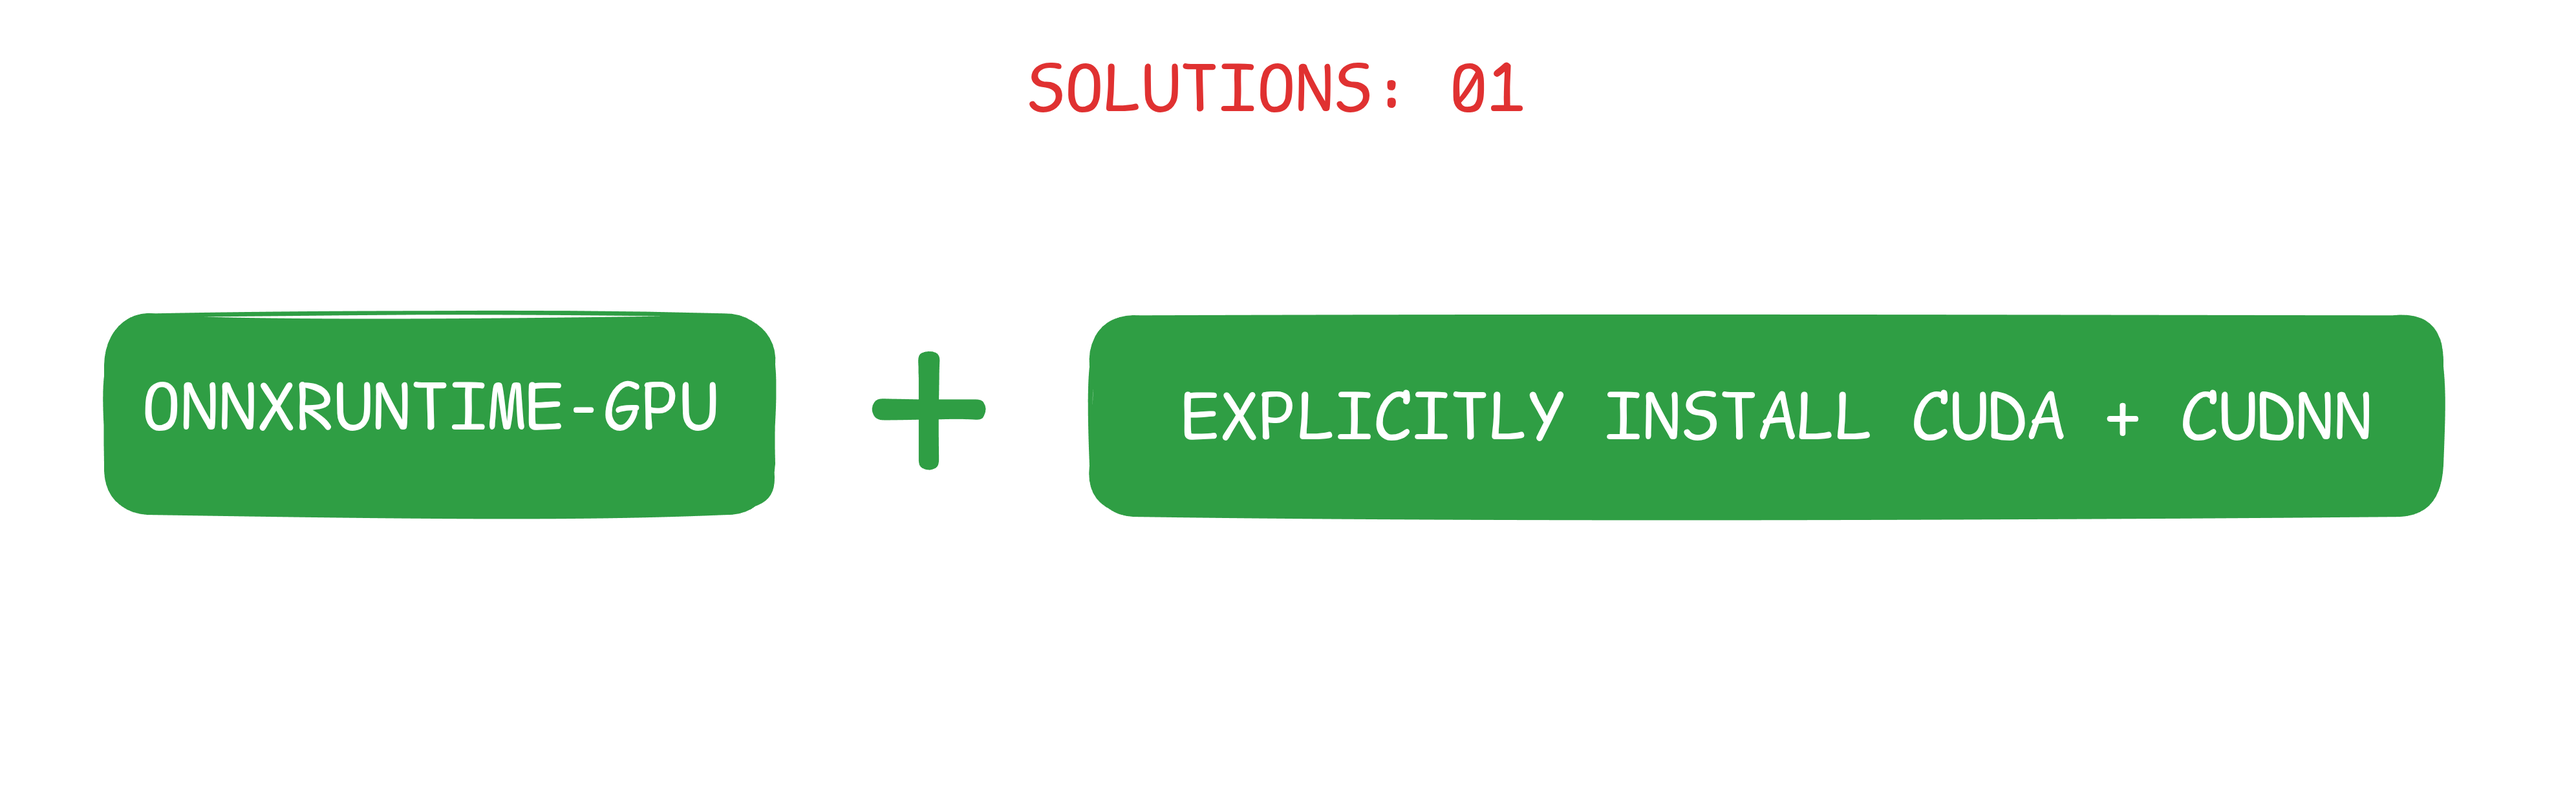
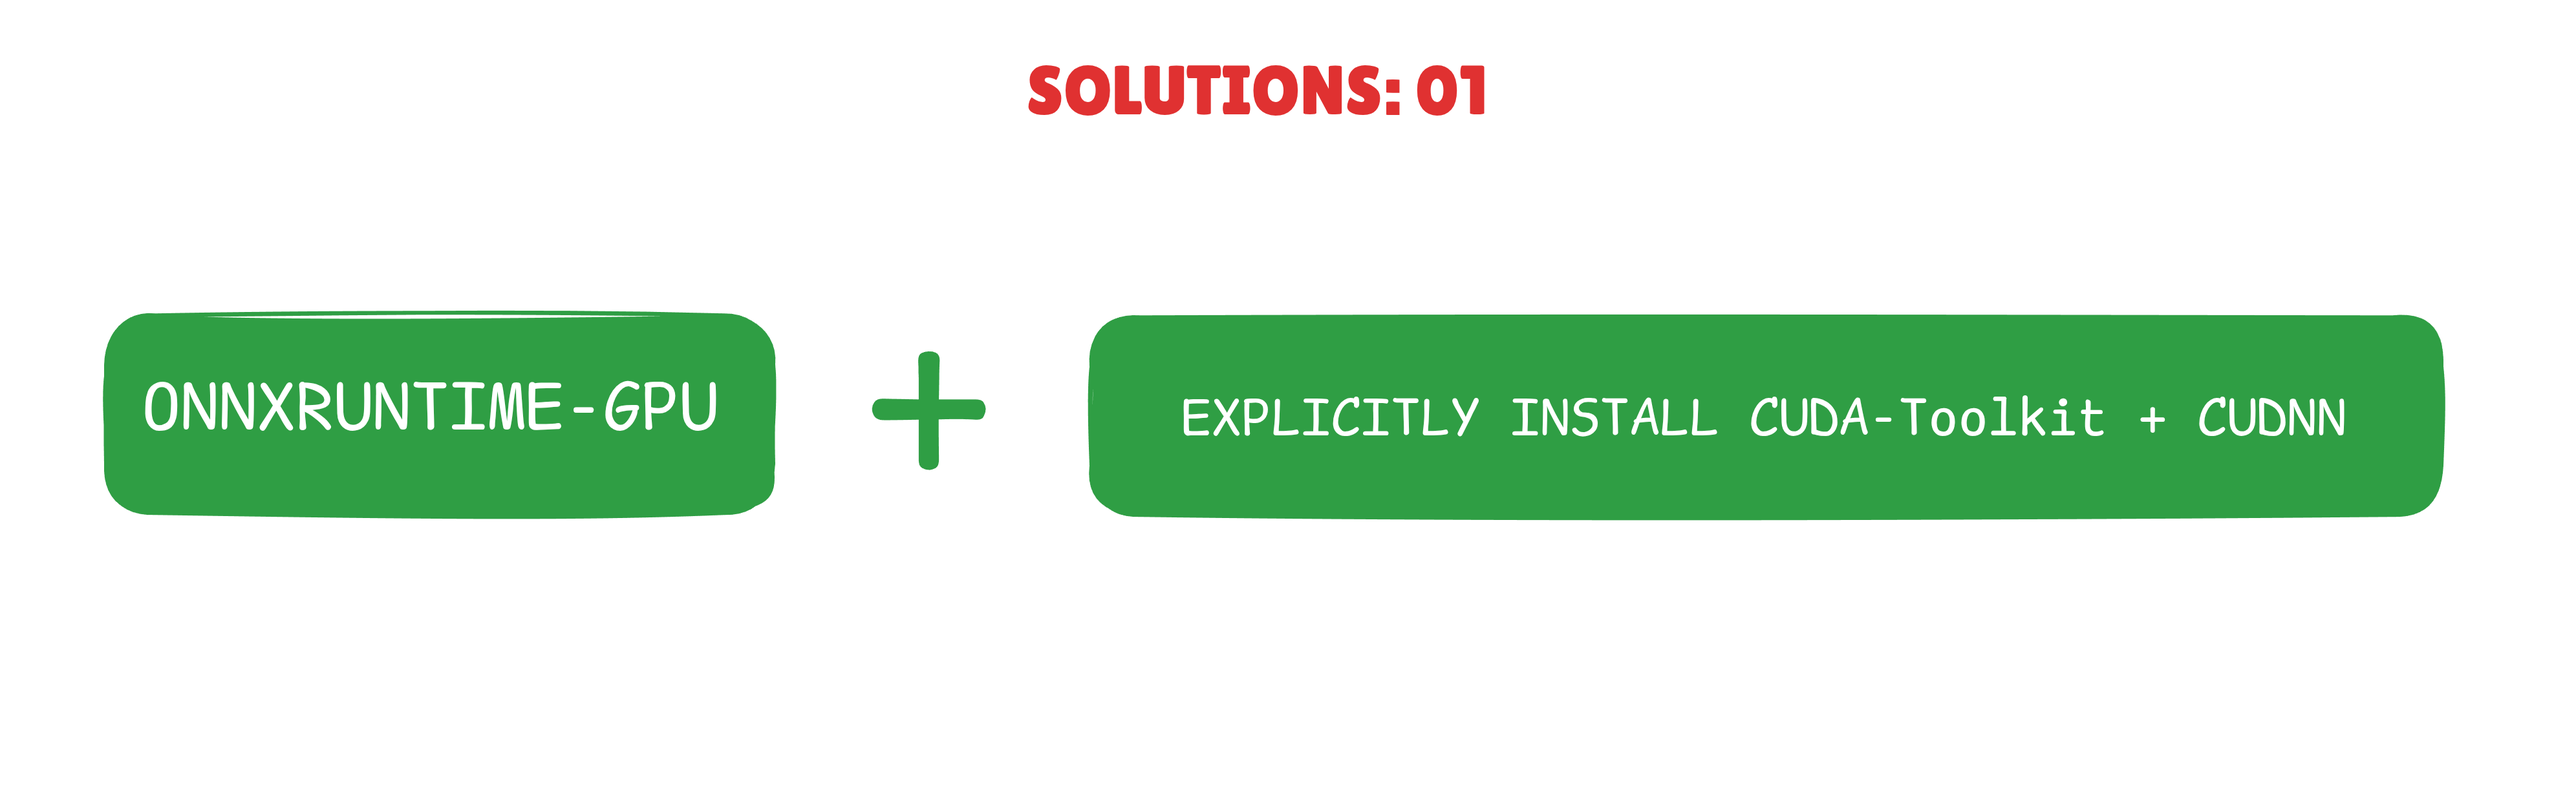
update week 9

Changed region(s): [[0.4357, 0.4915, 0.9337, 0.553], [0.4046, 0.0614, 0.5914, 0.1536]]

diff --git a/docs/blog/2025/week9/index.html b/docs/blog/2025/week9/index.html
@@ -291,7 +291,7 @@
                                     checked
                                 />
                                 ONNX Model Testing and Debugging Using
-                                onnx2pytorch (last week solution)
+                                onnx2pytorch (last week solution).
                             </li>
                             <li class="task-list-item">
                                 <input
@@ -310,7 +310,7 @@
                                     disabled
                                     checked
                                 />
-                                Install PyTorch with GPU support inside the
+                                Install PyTorch with CUDA support inside the
                                 container and verify its functionality.
                             </li>
                         </ul>
@@ -454,9 +454,15 @@
                         <h5>Summary: Issue with onnx2pytorch Package</h5>
                         <p>
                             We initially attempted to convert ONNX models to
-                            PyTorch using the <code>onnx2pytorch</code> library.
-                            While it worked with basic models, it failed to load
-                            our custom <code>ONNX</code> model, likely due to
+                            <a
+                                href="https://pytorch.org/"
+                                target="_blank"
+                                rel="noopener noreferrer"
+                                >PyTorch</a
+                            >
+                            using the <code>onnx2pytorch</code> library. While
+                            it worked with basic models, it failed to load our
+                            custom <code>ONNX</code> model, likely due to
                             unsupported operators or internal conversion bugs.
                         </p>
                         <ul>
@@ -534,7 +540,22 @@
                                 container.
                             </li>
                             <li>
-                                Manually installing CUDA Toolkit and cuDNN
+                                Manually installing
+                                <a
+                                    href="https://developer.nvidia.com/cuda-toolkit"
+                                    target="_blank"
+                                    rel="noopener noreferrer"
+                                >
+                                    CUDA Toolkit
+                                </a>
+                                and
+                                <a
+                                    href="https://developer.nvidia.com/cudnn"
+                                    target="_blank"
+                                    rel="noopener noreferrer"
+                                >
+                                    cuDNN
+                                </a>
                                 inside the Docker image to enable GPU support.
                             </li>
                         </ol>
@@ -678,6 +699,53 @@
                                 target="_blank"
                                 rel="noopener noreferrer"
                                 >Open Neural Network Exchange (ONNX)</a
+                            >
+                        </p>
+                        <p
+                            style="
+                                display: flex;
+                                align-items: center;
+                                gap: 10px;
+                            "
+                        >
+                            [6]
+                            <a
+                                href="https://developer.nvidia.com/cuda-toolkit"
+                                target="_blank"
+                                rel="noopener noreferrer"
+                            >
+                                CUDA Toolkit
+                            </a>
+                        </p>
+                        <p
+                            style="
+                                display: flex;
+                                align-items: center;
+                                gap: 10px;
+                            "
+                        >
+                            [7]
+                            <a
+                                href="https://developer.nvidia.com/cudnn"
+                                target="_blank"
+                                rel="noopener noreferrer"
+                            >
+                                cuDNN
+                            </a>
+                        </p>
+                        <p
+                            style="
+                                display: flex;
+                                align-items: center;
+                                gap: 10px;
+                            "
+                        >
+                            [8]
+                            <a
+                                href="https://pytorch.org/"
+                                target="_blank"
+                                rel="noopener noreferrer"
+                                >PyTorch</a
                             >
                         </p>
                     </div>
